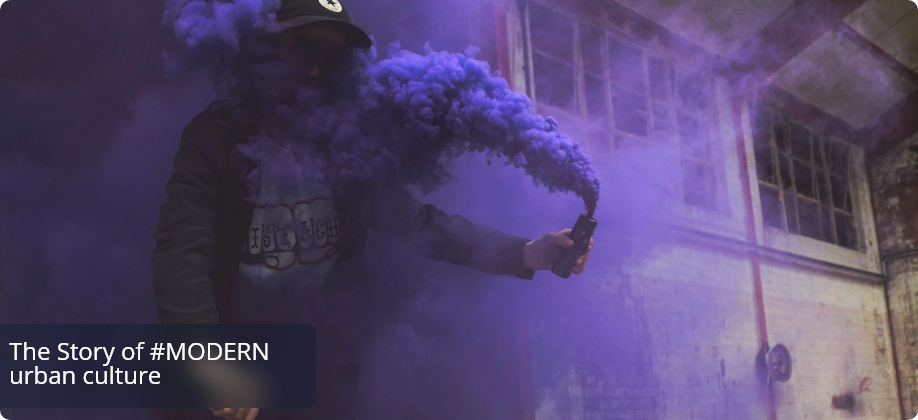
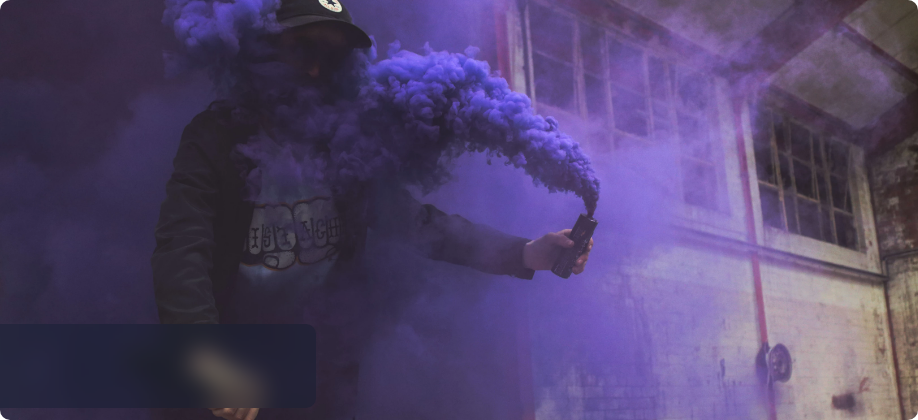
update css

Changed region(s): [[0.0, 0.8048, 0.305, 0.9286]]

diff --git a/index.html b/index.html
@@ -55,9 +55,10 @@
     </header>
     <main>
       <section>
-        <article>
+
+        <article class="first-article">
           <aside>
-            <img src="asset/img/Heading@2x.png" alt="popular-heading">
+            <img src="asset/img/Heading@2x.png" alt="popular-heading" class="img-resp">
           </aside>
           <div class="cart-article">
             <div>
@@ -70,7 +71,7 @@
                   <li></li>
                 </ul>
               </div>
-              <img src="asset/img/adidasFALCON@2x-1.png" alt="addidas-shoes">
+              <img src="asset/img/adidasFALCON@2x-1.png" alt="addidas-shoes" class="img-resp">
               <p>For Women, Made in China, 2018 </p>
             </div>
             <div>
@@ -80,10 +81,10 @@
                 <ul>
                   <li>$142</li>
                   <li></li>
-                  <li</li>
+                  <li></li>
                 </ul>
               </div>
-              <img src="asset/img/Nike-Air270-black@2x.png" alt="nike-shoes">
+              <img src="asset/img/Nike-Air270-black@2x.png" alt="nike-shoes" class="img-resp">
               <p>For Men, Made in China, 2017 </p>
             </div>
             <div>
@@ -96,23 +97,24 @@
                   <li></li>
                 </ul>
               </div>
-              <img src="asset/img/Nike_M2K_Tekno@2x-1.png" alt="nike-shoes">
+              <img src="asset/img/Nike_M2K_Tekno@2x.png" alt="nike-shoes" class="img-resp">
               <p>For Women, Made in China, 2018 </p>
             </div>                  
           </div>
         </article>
-        <article>
-          <h1>Featured NEWS</h1>
+        <h1>Featured NEWS</h1>
+        <article class="second-article">
+          
           <div class="feature-1">
-            <div>
+            <div class="feature-one">
               <p>The Story of #MODERN urban culture</p>
             </div>
-            <div>
-              <img src="" alt=""></br>
-              Inspirational Look book from<br>
-              young&passion designers
+            <div class="feature-two">
+              <img src="asset/img/Mask pic@2x-2.png" alt="blak&with-picture" class="img-resp"></br>
+              <p>Inspirational Look book from
+              young&passion designers</p>
             </div>
-            <div>
+            <div class="feature-three">
               ///<br>
               50%<br>
               BLACK<br>
@@ -130,49 +132,52 @@
             </div>
           </div>
           <div class="feature-3">
-            <img src="asset" alt="">
+            <img src="asset/img/Banner@2x.png" class="img-resp">
           </div>
         </article>
-        <article>
-          <h2>Popular Brands</h1>
-          <div>
+
+        <article class="news">
+          <h2><hr>Popular Brands</h1>
+          <div class="brands">
             <img src="asset/img/1@2x.png" alt="logo-nike">
             <img src="asset/img/Groupe de masques @2x.png" alt="logo-balance">
             <img src="asset/img/Adidas@2x.png" alt="logo-addidas">
             <img src="asset/img/Groupe de masques 2@2x.png" alt="logo-coq">
           </div> 
           <h2>Our Reviews</h2>
-          <div>
+          <div class="reviews">
+            <div>
             <img src="asset/img/Groupe de masques 3@2x-1.png" alt="logo-man">
             <p>That may sound too good to be true but on my first go in the Uncaged I ran my fastest 10K for 18 months and the following day equalled my 10K PB set nearly three years ago. 
             <br>  
             But if you don’t want to spend $180 on a “fashion runner,” then don’t, but don’t let the Ultra Boost Uncaged fool you-it performs as well or better than ANY other shoe out there, provided you acknowledge the support factor.</p>
             <strong>JENS ANDERSON</strong><br>
             <span></span>
-          </div>
-          <div>
-            <img src="asset/img/Groupe de masques 3@2x-2.png" alt="">
-            <p>That may sound too good to be true but on my first go in the Uncaged I ran my fastest 10K for 18 months and the following day equalled my 10K PB set nearly three years ago. 
-            <br>  
-            But if you don’t want to spend $180 on a “fashion runner,” then don’t, but don’t let the Ultra Boost Uncaged fool you-it performs as well or better than ANY other shoe out there, provided you acknowledge the support factor.</p>
-            <strong>LUNA ANDREWS</strong><br>
-            <span></span>
-          </div>
-          <div>
-            <img src="asset/img/Groupe de masques 3@2x-3.png" alt="">
-            <p>That may sound too good to be true but on my first go in the Uncaged I ran my fastest 10K for 18 months and the following day equalled my 10K PB set nearly three years ago. 
-            <br>  
-            But if you don’t want to spend $180 on a “fashion runner,” then don’t, but don’t let the Ultra Boost Uncaged fool you-it performs as well or better than ANY other shoe out there, provided you acknowledge the support factor.</p>
-            <strong>ALEX MORELLO</strong><br>
-            <span></span>
-          </div>
-          <div>
-            <img src="asset/img/Groupe de masques 3@2x-4.png" alt="">
-            <p>That may sound too good to be true but on my first go in the Uncaged I ran my fastest 10K for 18 months and the following day equalled my 10K PB set nearly three years ago. 
-            <br>  
-            But if you don’t want to spend $180 on a “fashion runner,” then don’t, but don’t let the Ultra Boost Uncaged fool you-it performs as well or better than ANY other shoe out there, provided you acknowledge the support factor.</p>
-            <strong>ANNIE BLOOM</strong><br>
-            <span></span>
+            </div>
+            <div>
+              <img src="asset/img/Groupe de masques 3@2x-2.png" alt="">
+              <p>That may sound too good to be true but on my first go in the Uncaged I ran my fastest 10K for 18 months and the following day equalled my 10K PB set nearly three years ago. 
+              <br>  
+              But if you don’t want to spend $180 on a “fashion runner,” then don’t, but don’t let the Ultra Boost Uncaged fool you-it performs as well or better than ANY other shoe out there, provided you acknowledge the support factor.</p>
+              <strong>LUNA ANDREWS</strong><br>
+              <span></span>
+            </div>
+            <div>
+              <img src="asset/img/Groupe de masques 3@2x-3.png" alt="">
+              <p>That may sound too good to be true but on my first go in the Uncaged I ran my fastest 10K for 18 months and the following day equalled my 10K PB set nearly three years ago. 
+              <br>  
+              But if you don’t want to spend $180 on a “fashion runner,” then don’t, but don’t let the Ultra Boost Uncaged fool you-it performs as well or better than ANY other shoe out there, provided you acknowledge the support factor.</p>
+              <strong>ALEX MORELLO</strong><br>
+              <span></span>
+            </div>
+            <div>
+              <img src="asset/img/Groupe de masques 3@2x-4.png" alt="">
+              <p>That may sound too good to be true but on my first go in the Uncaged I ran my fastest 10K for 18 months and the following day equalled my 10K PB set nearly three years ago. 
+              <br>  
+              But if you don’t want to spend $180 on a “fashion runner,” then don’t, but don’t let the Ultra Boost Uncaged fool you-it performs as well or better than ANY other shoe out there, provided you acknowledge the support factor.</p>
+              <strong>ANNIE BLOOM</strong><br>
+              <span></span>
+            </div>
           </div>
         </article>
       </section>

diff --git a/asset/css/style.css b/asset/css/style.css
@@ -6,7 +6,9 @@ html,
   padding: 0;
   box-sizing: border-box;
 }
-
+body{
+  background-color: #eeecec;
+}
 .img-resp{
   width:100%;
   height:auto;
@@ -109,6 +111,7 @@ menu ul li {
 }
 
 @media screen and (min-width: 992px) {
+  /* header */
   .nav-mobile{
     display: none;
   }
@@ -153,7 +156,145 @@ menu ul li {
   .header-article-img-1{
     margin-right: 10em;
   }
+  /* main */
 
+  /* first article */
+  main section .first-article{
+    background-color: #eeecec;
+    display: flex;
+    justify-content:flex-start;
+    align-items: center;
+  }
+
+  .first-article aside{
+    width:15%;
+    margin-right: 2em;
+  }
+
+  .first-article .cart-article{
+    width:60%;
+    display: flex;
+  }
+
+  .first-article .cart-article > div{
+    width:20em
+  }
+  
+  /* second article */
+  .second-article{
+    background-color: #040c1c;
+    display: flex;
+    justify-content:center;
+    padding: 0.8em;
+    min-height:
+  }
+
+  .feature-1{
+    display: flex;
+    flex-wrap: wrap;
+    width:40%;
+  }
+
+  .feature-one{
+    background-image: url("../img/News-1@2x.png");
+    background-position: center center;
+    background-repeat:no-repeat;
+    background-size: cover;
+    border-radius: 0.8em;
+    width:100%;
+    height: 18em;
+    padding:0.5em;
+    position: relative;
+  }
+
+  .feature-one p{
+    color: #fff;
+    width: 10em;
+    font: 1.4em;
+    position:absolute;
+    bottom:0;
+    left:0;
+  }
+
+  .feature-two{
+    width:50%;
+  }
+  .feature-two img{
+    border-radius:0.8em;
+  }
+
+  .feature-three{
+    width:50%;
+    background-color: #000;
+    color: #fff;
+    height:18em;
+  }
+
+  .feature-2{
+    width:20%;
+    height: 18em;
+    display: flex;
+    flex-direction: column;
+  }
+
+  .feature-2 div{
+    width:100%;
+  }
+
+  .feature-2 div:first-child{
+    background-color: #000;
+    color:#fff
+  }
+
+  .feature-2 div:last-child{
+    background-image: url("../img/Mask\ pic@2x-3.png");
+    background-repeat: no-repeat;
+    background-position: center center;
+    background-size: cover;
+    color:#fff
+  }
+  .feature-3{
+    width:25%;
+  }
+
+  /* three article */
+  .three-article{
+    background-color: #eeecec;
+    width:95%;
+    margin: 0 auto;
+  }
+  .brands,.reviews{
+    display: flex;
+    justify-content:space-around;
+  }
+
+  .brands img{
+    display: block;
+    background-color: #fff;
+    width:20%;
+    border-radius: 0.8em;
+    height: 15em;
+  }
+
+  .reviews div{
+    width:20%;
+    padding-top: 1.5em;
+    background-color: #fff;
+    border-radius: 0.8em;
+    height: 25em;
+  }
+
+  .reviews div:first-child{
+    background-color: #040c1c;
+    color: #fff
+  }
+
+  .reviews div img{
+    width:30%;
+    margin-bottom: 2em;
+  }
+
+  /* footer */
   footer{
     width:100%;
     background-color:#051026;
